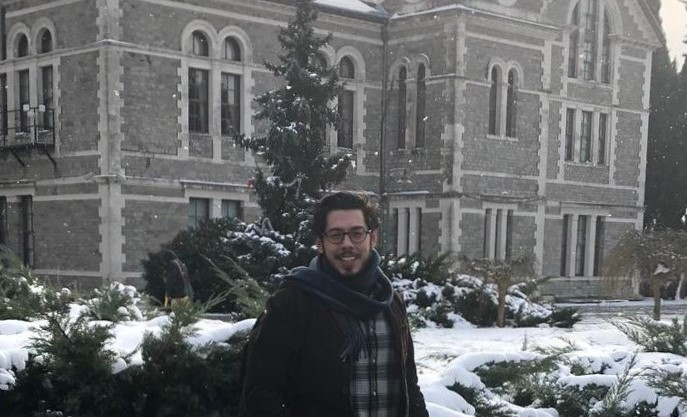
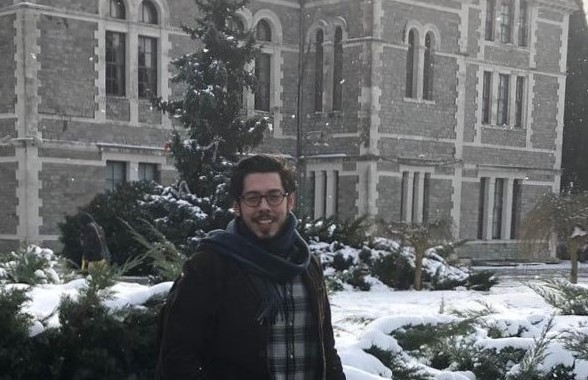
profile_pic.jpg

diff --git a/index.html b/index.html
@@ -35,7 +35,7 @@ try {
 <h1>Oğuz Gürerk</h1>
 <h2>General Information </h2>
 <table class="imgtable"><tr><td>
-<img src="profile_pic.jpg" alt="PP" width="410px" height="280px" />&nbsp;</td>
+<img src="profile_pic.jpg" alt="PP" width="400px" height="280px" />&nbsp;</td>
 <td align="left"><p>Oğuz Gürerk<br />
 <a href="http://www.math.boun.edu.tr/">Department of Mathematics</a> and <a href="http://econ.boun.edu.tr">Department of Economics</a><br />
 <a href="http://www.boun.edu.tr/en-US/Index">Bogazici University</a><br />
